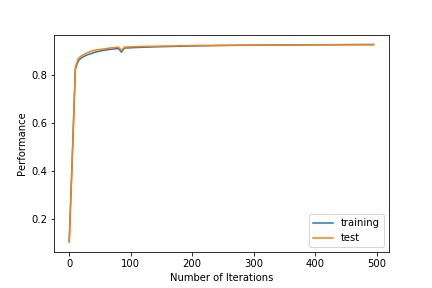
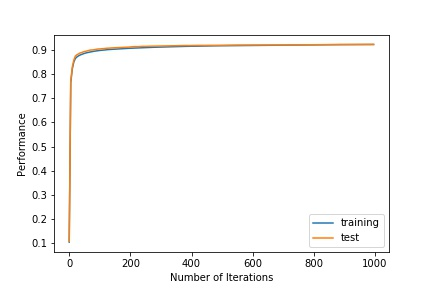
1

diff --git a/CSC411/Project_2/P2_Submission/digits.py b/CSC411/Project_2/P2_Submission/digits.py
@@ -179,7 +179,7 @@ def performance(x, y,Wb, print_output = True,report = "test set"):
     return result/x.shape[0]
     
 def grad_descent(f, df, loss, x, y, init_t,ada_learning_rate = True, learning_curve=False, \
-                 tx=[], ty=[], figure_name = 'default',momentum = True, damping = 0.9, alpha=0.0001, max_iter=500, EPS = 1e-5):
+                 tx=[], ty=[], figure_name = 'default',momentum = True, damping = 0.9, alpha=0.0001, max_iter=1000, EPS = 1e-5, zoom_in = 25):
     """
     Input:
         ada_learning_rate: adaptive learning rate flag
@@ -236,8 +236,8 @@ def grad_descent(f, df, loss, x, y, init_t,ada_learning_rate = True, learning_cu
         plt.savefig('figures/'+figure_name+'.jpg')
         plt.show()
 
-        plt.plot(num_iter[5:], performance_training[5:],'-')
-        plt.plot(num_iter[5:], performance_test[5:],'-')
+        plt.plot(num_iter[zoom_in:], performance_training[zoom_in:],'-')
+        plt.plot(num_iter[zoom_in:], performance_test[zoom_in:],'-')
         plt.legend(['training', 'test'])
         plt.xlabel('Number of Iterations')
         plt.ylabel('Performance')
@@ -352,6 +352,67 @@ def part3():
  
 # Part 4
 # -----------------------------------------------------------------------------
+def part4_grad_descent(f, df, loss, x, y, init_t,ada_learning_rate = False, \
+                 momentum = True, damping = 0.9, alpha=0.0001, max_iter=500, EPS = 1e-5):
+    """
+    Input:
+        ada_learning_rate: adaptive learning rate flag
+        momentum: momentum flag
+        damping: momentum danping ratio
+    Output:
+    """
+    v = np.zeros((init_t.shape[0],init_t.shape[1])) #used for momentum
+    
+    prev_t = init_t-10*EPS
+    t = init_t.copy()
+    
+    currloss = loss(y, f(x,t)) # used for adaptive alpha
+    curr_alpha = alpha # used for adaptive alpha
+    
+    iter  = 0
+    num_iter = []
+    loss_function_value = []
+    
+    while norm(t - prev_t) >  EPS and iter < max_iter:
+        
+        #plot learning curve
+        if iter % 5 == 0:
+            num_iter.append(iter)
+            loss_function_value.append(currloss)
+        #normal gradient descent
+        prev_t = t.copy()
+        if momentum:
+            v = damping*v+curr_alpha*df(y, f(x,t), x)
+            t -= v
+        else:
+            t -= curr_alpha*df(y, f(x,t), x)
+        
+        if iter % 5 == 0:
+            if currloss < loss(y, f(x,t)) and ada_learning_rate:
+                curr_alpha = curr_alpha/2
+            currloss = loss(y, f(x,t))
+            #print "Gradient: ", df(x, y, t), "\n"
+        iter += 1
+
+    """
+    plt.plot(num_iter, loss_function_value,'-')
+    plt.legend(['training'])
+    plt.xlabel('Number of Iterations')
+    plt.ylabel('Loss Function Value')
+    #plt.savefig('figures/'+figure_name+'.jpg')
+    plt.show()
+
+    plt.plot(num_iter[5:], performance_training[5:],'-')
+    plt.plot(num_iter[5:], performance_test[5:],'-')
+    plt.legend(['training', 'test'])
+    plt.xlabel('Number of Iterations')
+    plt.ylabel('Performance')
+    plt.savefig('figures/'+figure_name+'_1.jpg')
+    plt.show()
+    """
+    
+    return num_iter, loss_function_value
+
 def part4():
     
     print "Running Part 4"
@@ -365,8 +426,29 @@ def part4():
     training_x, training_y,validation_x,validation_y, test_x, test_y = create_sets(v_size_per_digit=0)     
     #create weights    
     np.random.seed(0)
-    Wb = np.random.normal(0.,0.01,[num_digits,input_size+1])
-    trained_Wb = grad_descent(forward, backward, NLL, training_x, training_y.T, Wb,momentum = False,learning_curve=True, max_iter=500, alpha=0.0001,figure_name = "part4f1", tx=test_x, ty=test_y.T)
+    
+    
+    print "Tune alpha"
+    Wb = np.random.normal(0.,0.0001,[num_digits,input_size+1])
+    
+    lengend_al = []
+    for al in [x*0.000001 for x in range(5,26,5)]:
+        num_iter, loss_function_value = part4_grad_descent(forward, backward, NLL, training_x, training_y.T, Wb,momentum = False, max_iter=50, alpha=al)    
+        plt.plot(num_iter, loss_function_value,'-')
+        lengend_al.append("alpha = "+str(al))
+    plt.legend(lengend_al)
+    plt.xlabel('Number of Iterations')
+    plt.ylabel('Loss Function Value')
+    plt.savefig('figures/part4fta.jpg')
+    plt.show()
+    
+    print "Generate learning curve and weights visualizaion"
+    
+    np.random.seed(1)
+    Wb = np.random.normal(0.,0.0001,[num_digits,input_size+1])
+    
+    al=0.00001
+    trained_Wb = grad_descent(forward, backward, NLL, training_x, training_y.T, Wb,momentum = False,learning_curve=True, max_iter=1000, alpha=al,figure_name = "part4f1", tx=test_x, ty=test_y.T)
     trained_W = trained_Wb[:,:-1]
 
     for i in range(trained_W.shape[0]):
@@ -376,17 +458,8 @@ def part4():
         plt.show()
         plt.imsave("figures/part4f"+str(i+2)+".jpg",(trained_W[i,:]).reshape(28,28), cmap=cm.coolwarm)
 
-    """
-    f, axarr = plt.subplots(5, 2)
-    for i in range(5):
-        for j in range(2):
-            axarr[i, j].imshow((trained_W[i*2+j,:]).reshape(28,28),interpolation='none', cmap=cm.coolwarm)
-            axarr[i, j].axes.get_xaxis().set_visible(False)
-            axarr[i, j].axes.get_yaxis().set_visible(False)
-    plt.savefig('figures/part1f2.jpg')
-    plt.show()
-    """
     return 0
+    
 
 # Part 5
 # -----------------------------------------------------------------------------
@@ -534,8 +607,8 @@ if __name__ == "__main__":
     #part1()
     #part2()
     #part3()
-    #part4()
-    part5()
-    part6()
+    part4()
+    #part5()
+    #part6()
     
     
